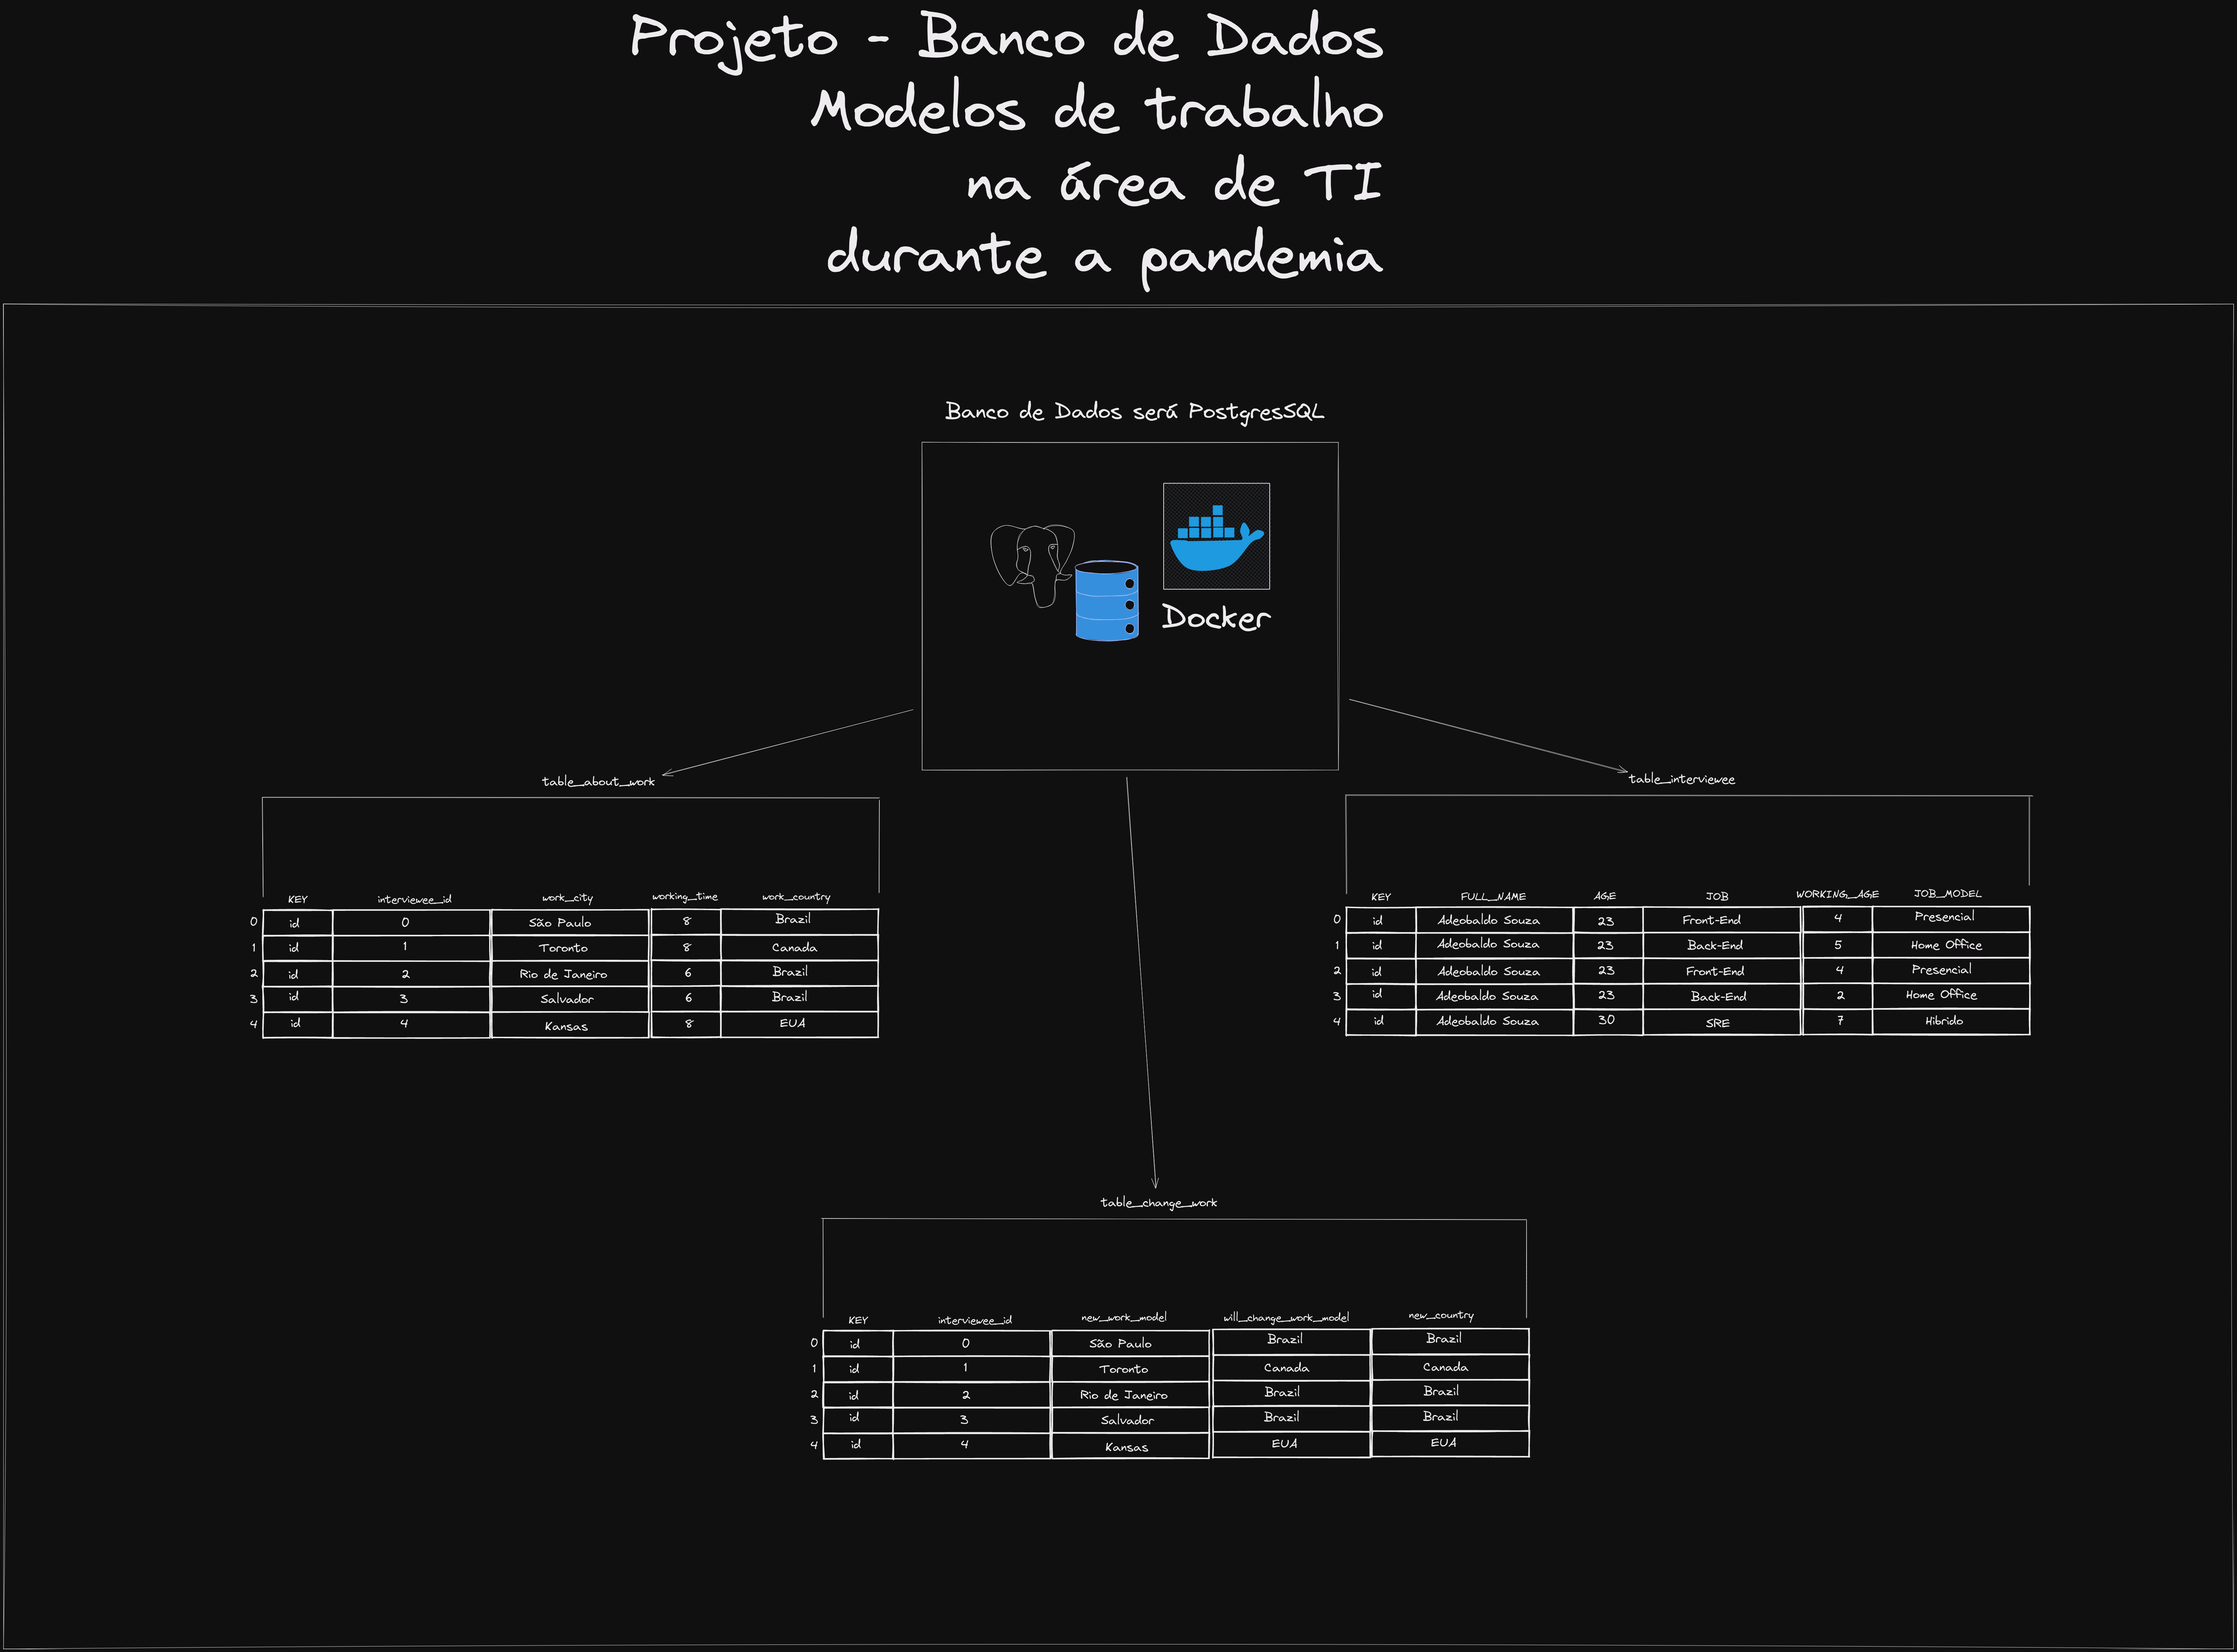
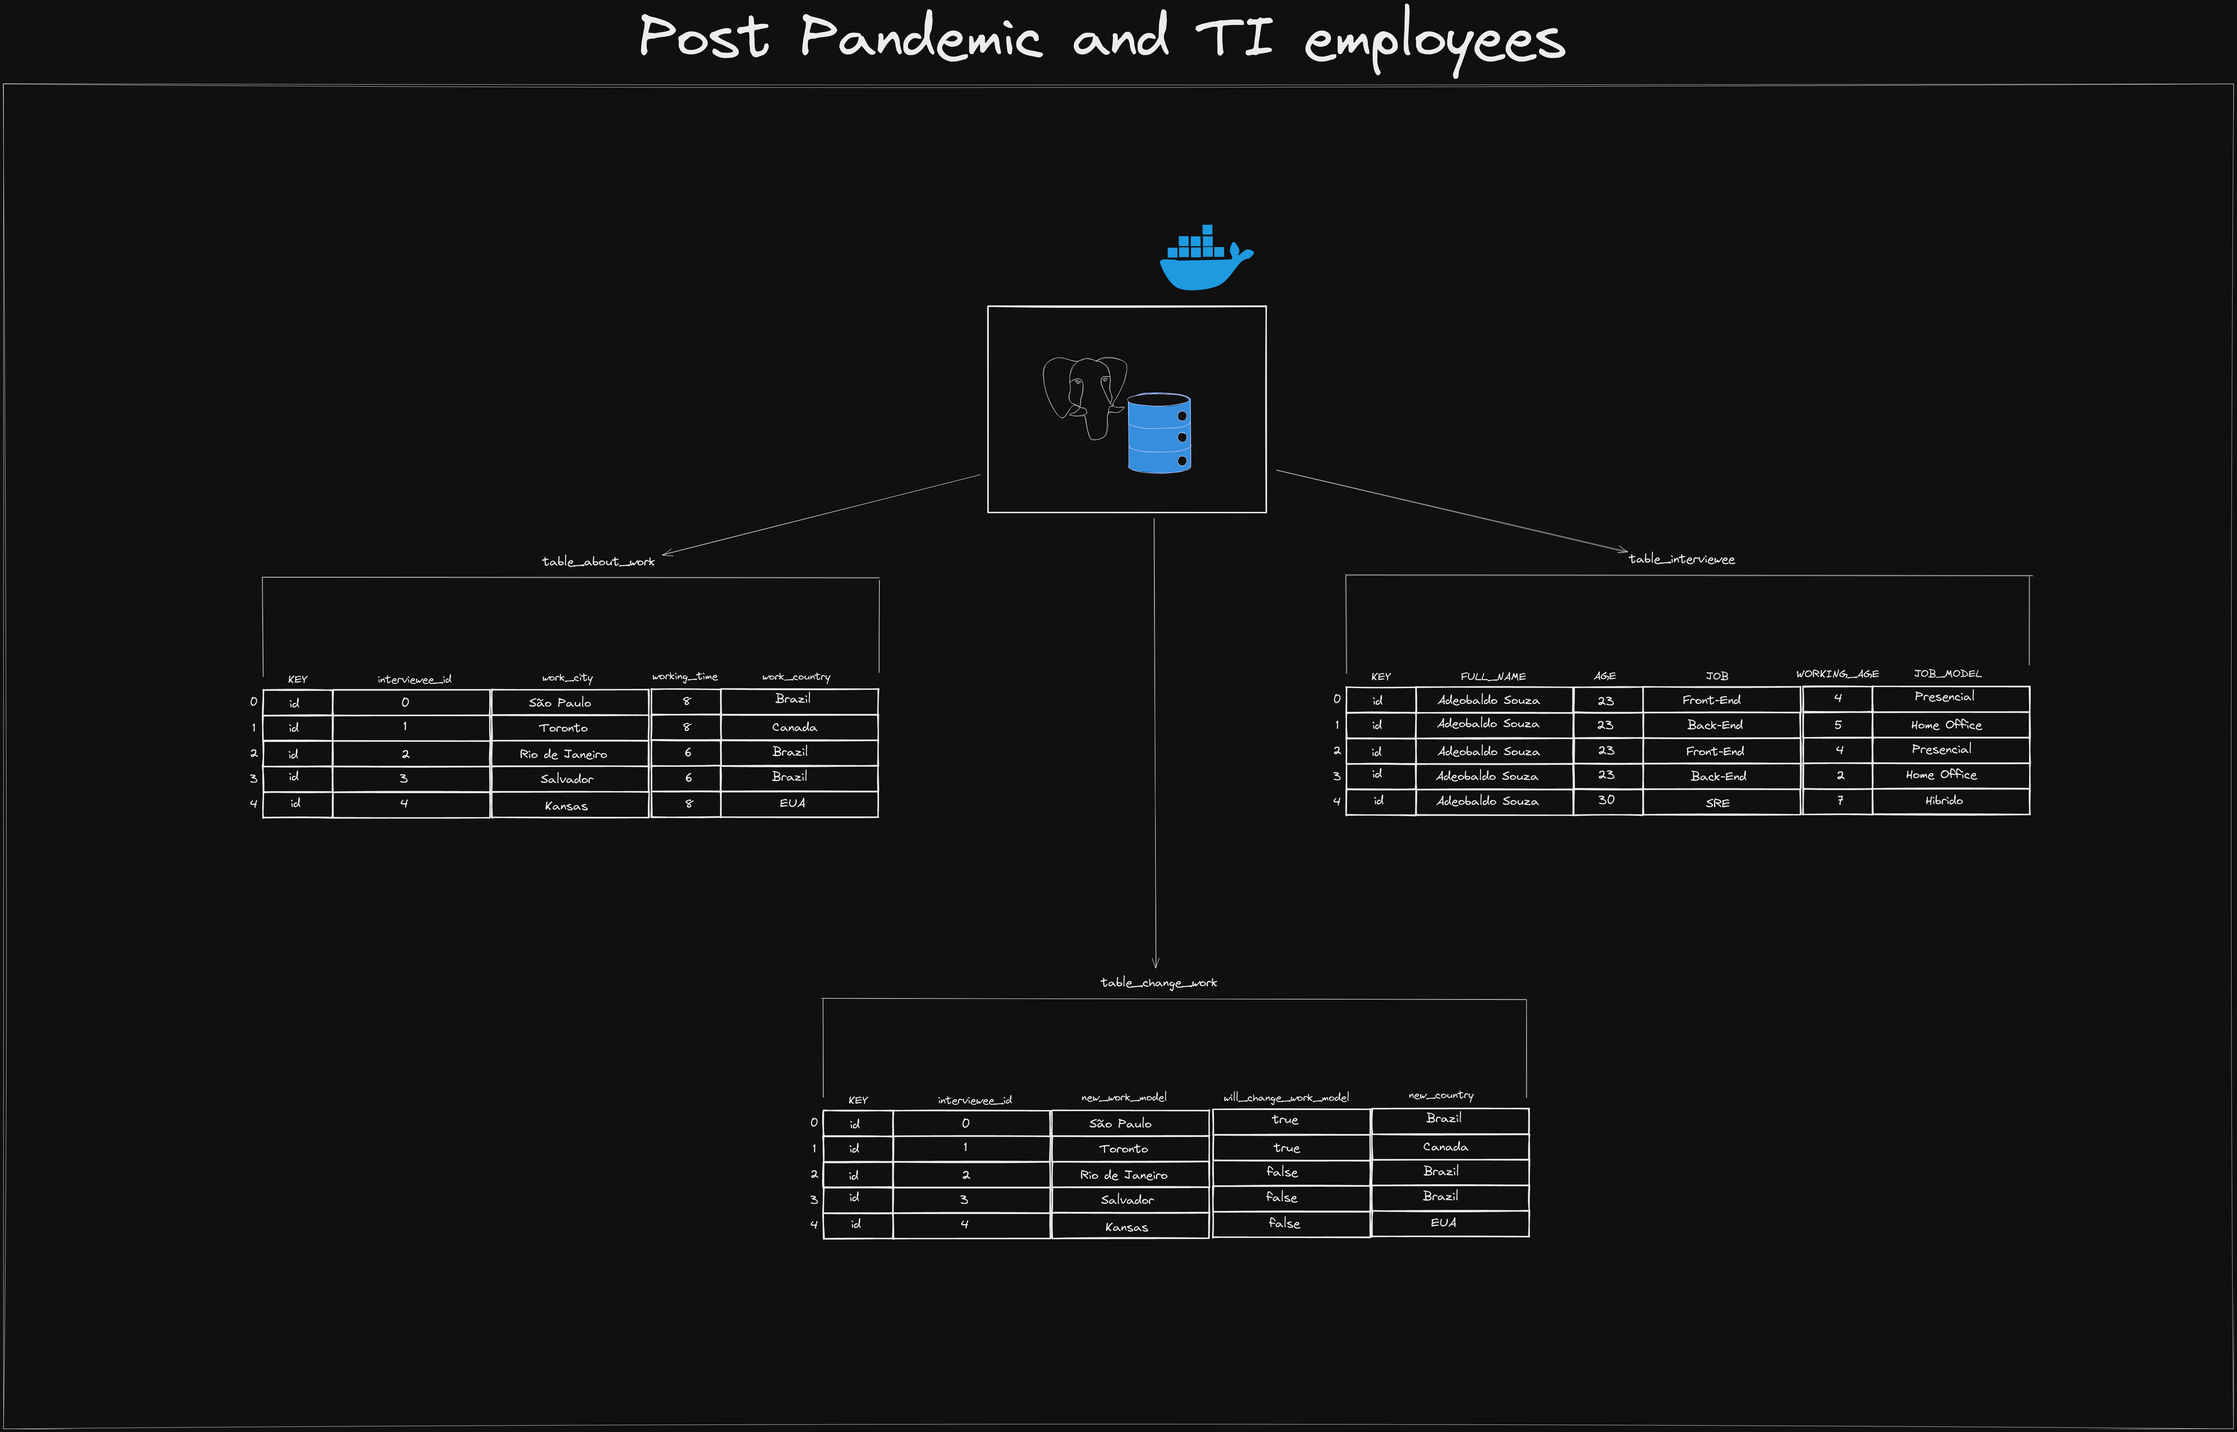
docs: better readme

diff --git a/README.md b/README.md
@@ -1,29 +1,40 @@
-<h1 align="center">The post-pandemic and the work model of IT professionals</h1>
+# The post-pandemic and the work model of IT professionals
 
-<p align="center">
+**THIS DB HAS NO TRUE DATA, THEY ARE ONLY FICTIONAL FOR STUDY.**
 
-<strong>THIS DB HAS NO TRUE DATA, THEY ARE ONLY FICTIONAL FOR
-STUDY.</strong>
-
-</p>
-
-<p align="center">
-
-  <img src="https://c.tenor.com/UOlZB9S6Yh8AAAAd/civid19-coronavirus.gif" width="500">
-
-</p>
+![as](https://c.tenor.com/UOlZB9S6Yh8AAAAd/civid19-coronavirus.gif)
 
 Modeling made in [Excalidraw](https://excalidraw.com/)
-`modeling available` [aqui](./.github/img/excalidraw-of-project.png).
+`modeling available` [here](./.github/img/excalidraw-of-project.png).
 
-Database created and developed using PostgreSQL, PGAdmin and Docker.
+> Database created and developed using PostgreSQL, PGAdmin and Docker.
 
-## 📦 Dependências para rodar a aplicação
+## 📦 Dependencies to run the project
 
-- `Docker.`
-- `Excalidraw, to view the diagram.`
+- `Docker version 20.10 or better`
 
-## 📜 Sobre o banco
+## 🎲 Running the project
+
+```zsh
+# Clone this repository
+git clone git@github.com:deverebor/postgresql-univercity-database-project.git
+```
+
+```zsh
+# Access the project folder in the / cmd terminal
+cd postgresql-univercity-database-project
+```
+
+```zsh
+# Please have docker installed on your machine
+docker compose up
+```
+
+```zsh
+# access the pgadmin on http://localhost:5050
+```
+
+## 📜 About project
 
 The theme given to our team was the model of work in the post pandemic
 of covid. As a choice of database, we had PostgreSQL + pgAdmin 4. A
@@ -31,7 +42,7 @@ docker image was created to generate the database and its
 dependencies, aiming at fairness in the environment among all the
 team.
 
-### 🪄 Storage Procedure and Views
+## 🪄 Storage Procedure and Views
 
 In addition, Storage Procedures and Views were created to assist in
 the search for data in the database.
@@ -40,31 +51,106 @@ the search for data in the database.
   - Respondents who think about changing their work model.
   - Respondents working on more than one model.
 - Views:
-  -  Views to map the most searched countries.
-  -  Views to map work time x experience.
-
-### 👨🏾🔬 Modelagem inicial do banco
-
-![banco](./.github/img/excalidraw-of-project.png) ## Adicionar no futuro
-
-### 📊 Diagrama do Banco
-
-## 📌 Links úteis
-
-- Slide da apresentação
-  [aqui](assets/slide/Banco%20de%20Dados%20-%20Covid%20UNIME.pptx)
-- [Brasil.io](https://brasil.io/dataset/covid19/caso/) usado como base
-  para a modelagem.
-
-## 👨🏾🦱 Equipe composta por
-
-- Lucas Souza.
-- Bruno Lucciola.
-- Davi Miranda
-- Gabriel Melo
+  - Views to map the most searched countries.
+  - Views to map work time x experience.
 
 ---
 
-<p align="center">
+## 🚀 System project
+
+The project was created with the aim of showing the impact of the
+pandemic on the life of the IT professional.
+
+To develop this project it was necessary to divide it into 4 parts.
+
+- Which tool to use?
+- What type of bank to use (relational or not)?
+- How to be sure that all people can have the same work environment?
+- How to generate graphs of this data?
+
+And for each of these questions an answer was found.
+
+### 👨🏾🔬 Answering these doubts
+
+> Which tool to use?
+
+The tool we decided to work with was PostgreSQL.
+
+Today pgSQL is one of the most used databases in the world. An open
+source tool that takes with it several collaborators who are daily
+looking to improve the software.
+
+> What type of bank to use (relational or not)?
+
+So we decided to go to the relational database. That way we would be
+able to have more control over our tables. Since in a non-relational
+database (Mongo for example) collections are used.
+
+> How to be sure that all people can have the same work environment?
+
+To solve this problem we decided to use Docker. With it we were able
+to create an image that would have all the dependencies necessary for
+the project to run.
+
+This way we could be sure that everyone would have the same
+environment.
+
+> How to generate graphs of this data?
+
+This step was the most difficult. We had to find a way to generate
+graphs from the data in the database. And we found a way to do it
+using pgAdmin 4.
+
+pgAdmin 4 is a tool that allows you to manage PostgreSQL databases. It
+is a graphical interface that allows you to create, edit and delete
+tables, views, procedures, etc. This tool has an function that allows
+you to generate graphs from the data in the database.
+
+But we had find other way to generate graphs. So we decided to use
+Python. With it we were able to generate graphs from the data in the
+database.
+
+### 🔨 Turning the idea into reality
+
+To turn the idea into reality we had to follow some steps. The first
+step was create the base project with Excalidraw, this way we could
+have a better visualization of the project and see where we would have
+to make changes.
+
+![banco](./.github/img/excalidraw-of-project.png)
+
+After that the second step was to create the database. To do this we
+used the pgAdmin 4 tool. With it we were able to create the database
+and its tables. We also created the procedures and views.
+
+> 📊 EDR (Entity Relationship Diagram) about the database
+
+![banco](./.github/img/erd-database-diagram.png)
+
+The third step was to create the docker image. With it we were able to
+create the database and its dependencies. This way we could be sure
+that everyone would have the same environment and would not have any
+problems when running the project.
+
+The fourth step was to create the graphs. With pgAdmin 4 we were able
+to generate graphs from the data in the database. But we also had to
+create other graphs. So we decided to use Python. With it we were able
+to generate graphs from the data in the database.
+
+## 📌 Useful's links
+
+- Presentation pptx
+  [here](assets/presentation/ANHANGUERA_SYSTEM_PROJECT.pptx)
+- [Brasil.io](https://brasil.io/dataset/covid19/caso/) use as base to
+  create relationships and structure.
+
+## 👨🏾🦱 Equipe composta por
+
+- [Lucas Souza](https://www.linkedin.com/in/lucas-souza-dev/).
+- [Bruno Lucciola](https://www.linkedin.com/in/brunolucciola/).
+- [Davi Miranda](https://www.linkedin.com/in/davi-miranda/).
+- [Gabriel Melo](https://github.com/ArkGM).
+
+---
+
 Develop with 💜 by - Lucas Souza(@deverebor)
-</p>
